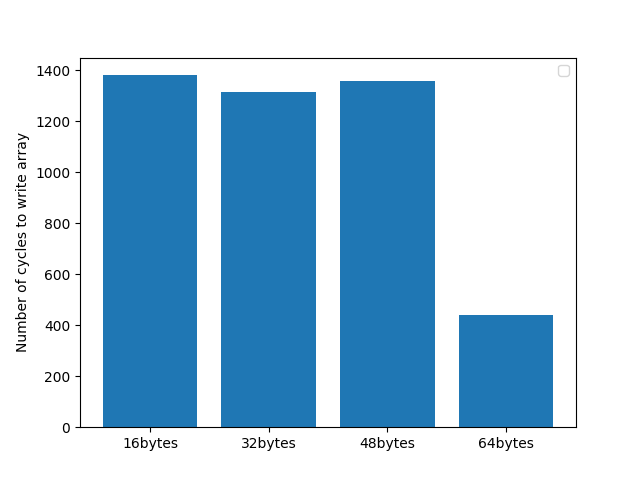
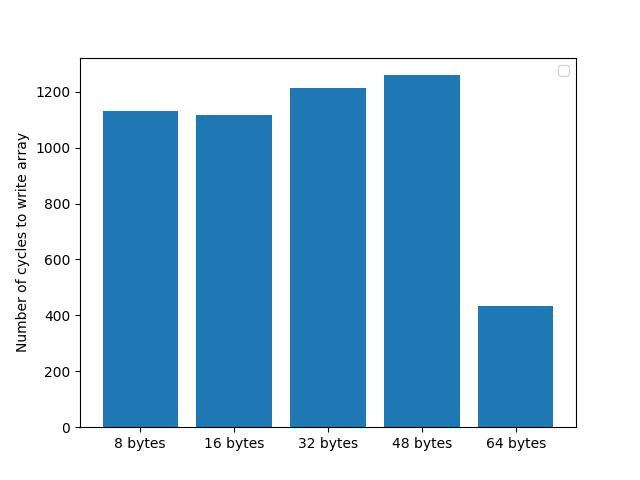
Add 8 byte case to write combining

diff --git a/_posts/2018-08-26-nontemporal.md b/_posts/2018-08-26-nontemporal.md
@@ -127,6 +127,16 @@ We'll run this code in the inner loop:
 ``` c
 void force_nt_store(cache_line *a) {
     __m128i zeros = {0, 0}; // chosen to use zeroing idiom;
+
+#if BYTES == 8 // special case for 8 to try a single small transaction
+    __asm volatile("pxor %%mm0, %%mm0\n\t"
+                   "movntq %%mm0, (%0)\n\t"
+                   :
+                   : "r" (&a->vec_val)
+                   : "memory");
+    return;
+#endif
+
     __asm volatile("movntdq %0, (%1)\n\t"
 #if BYTES > 16
                    "movntdq %0, 16(%1)\n\t"
